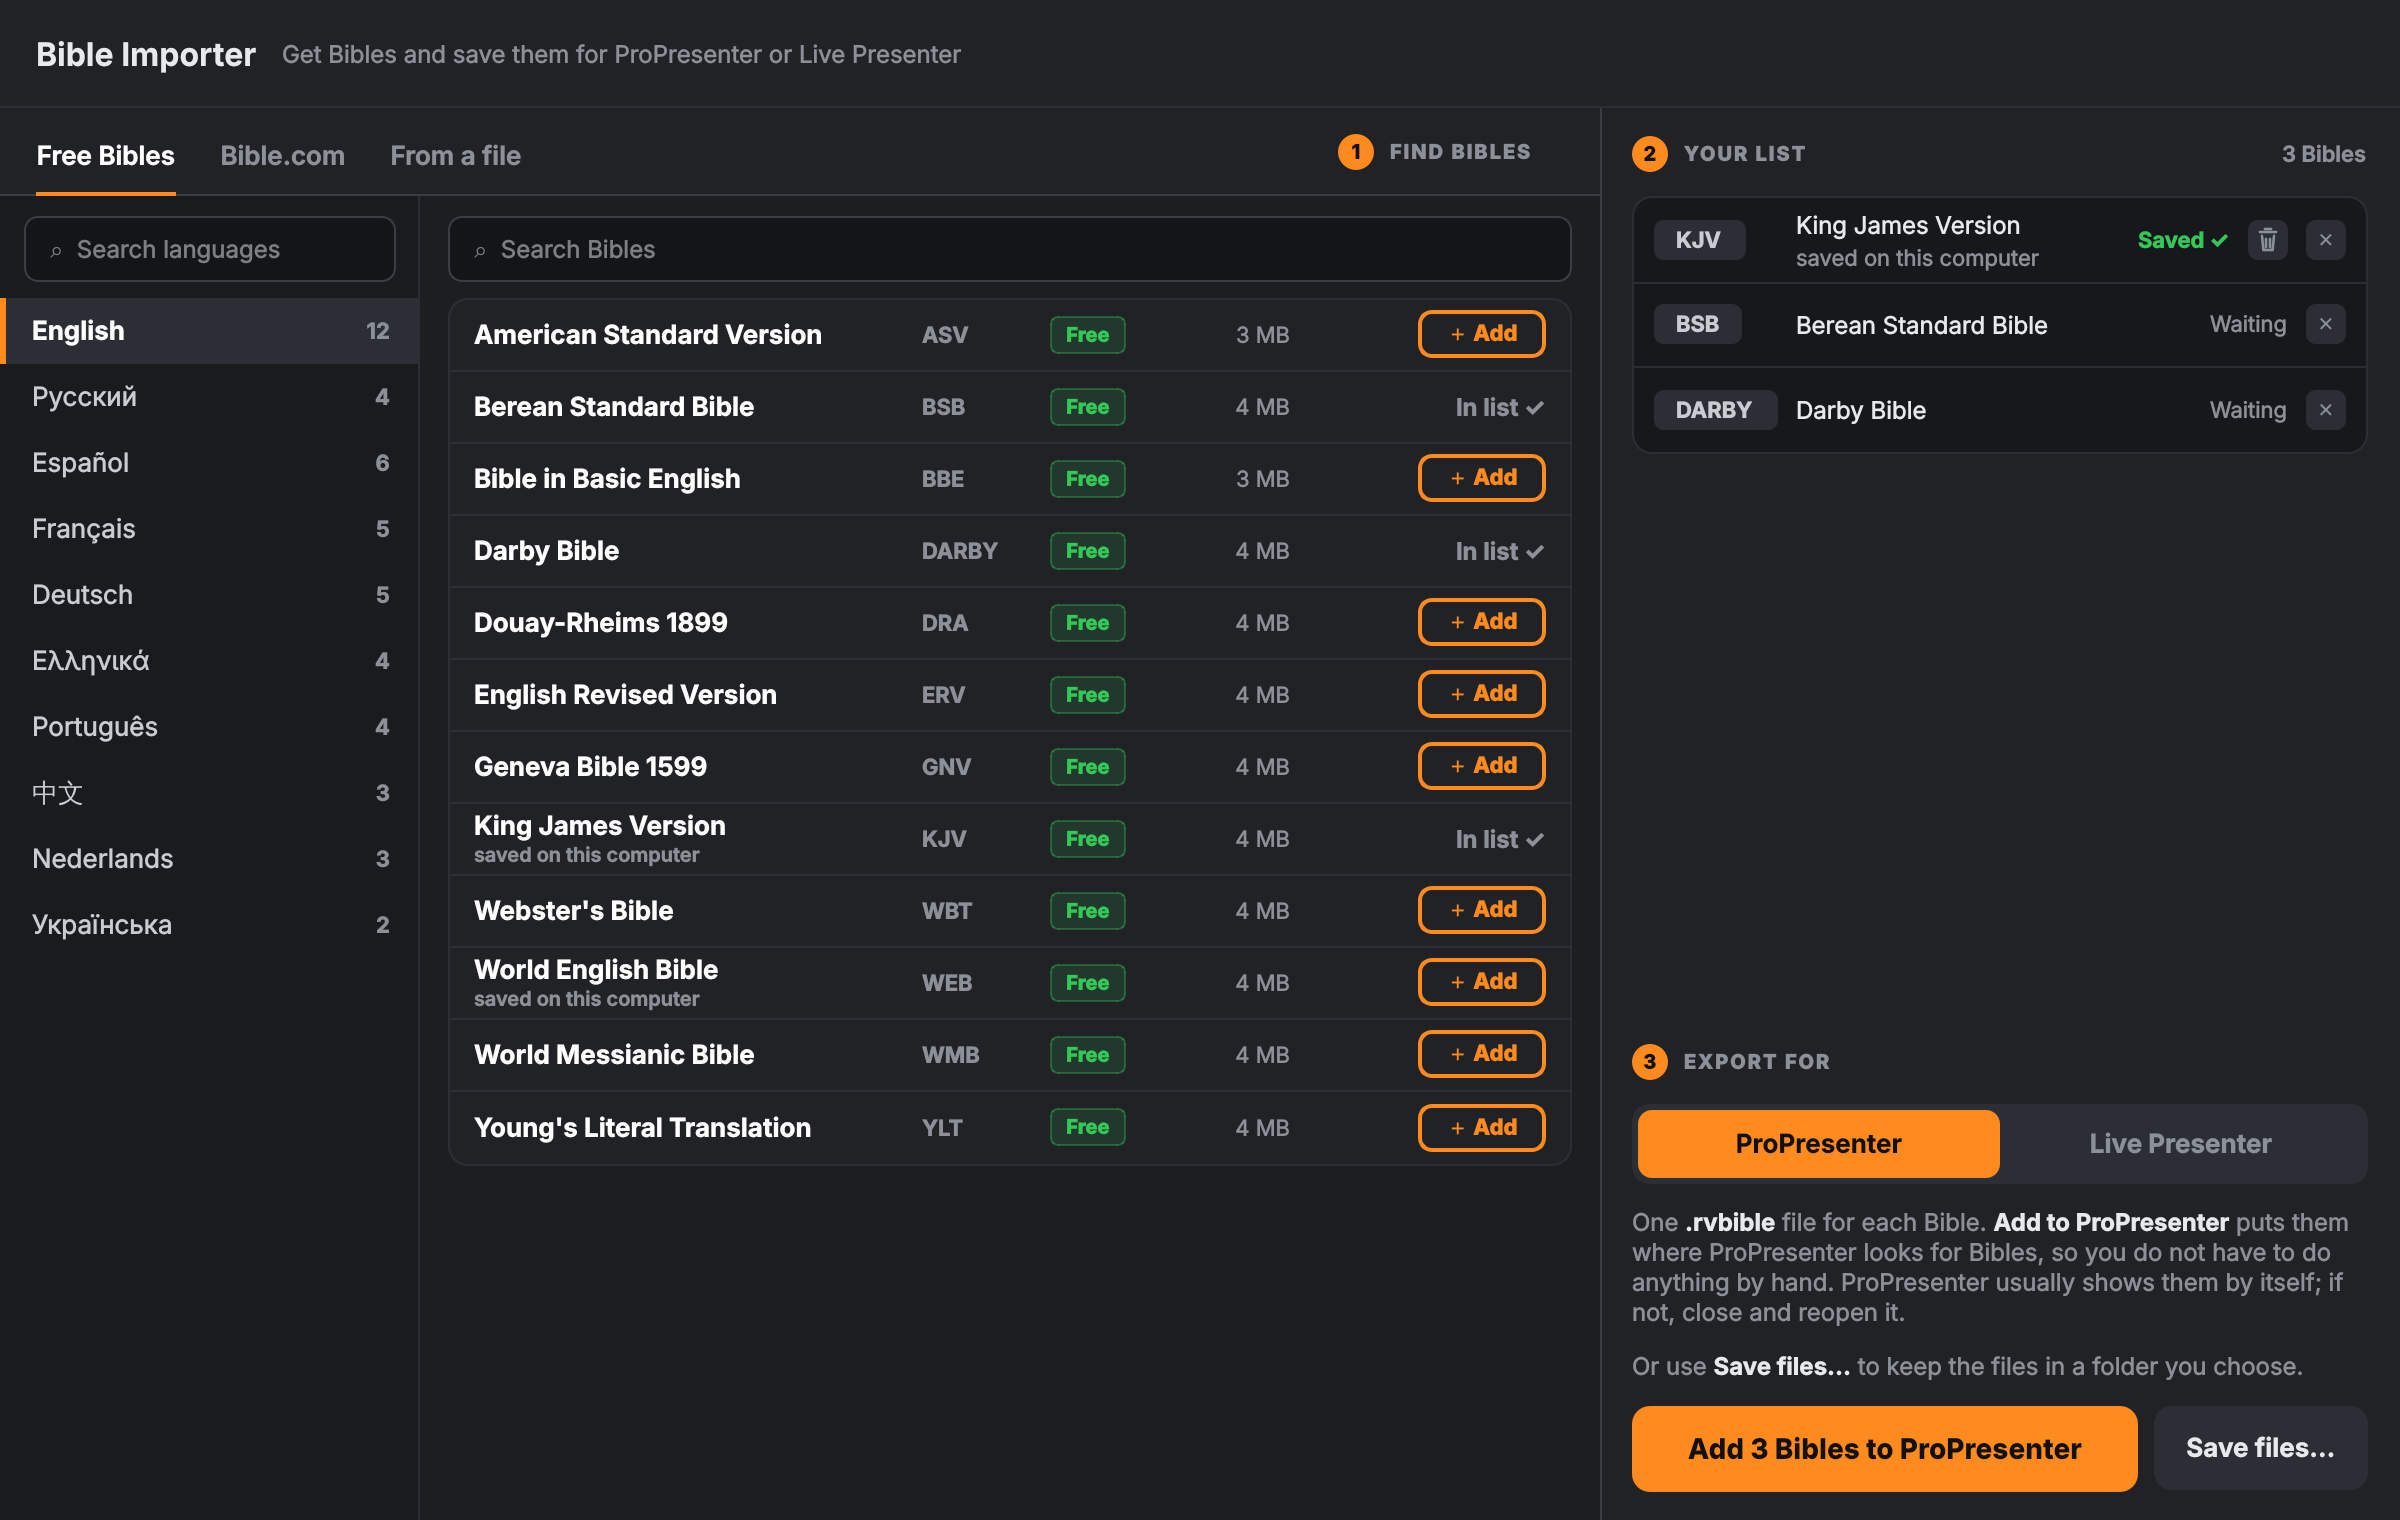
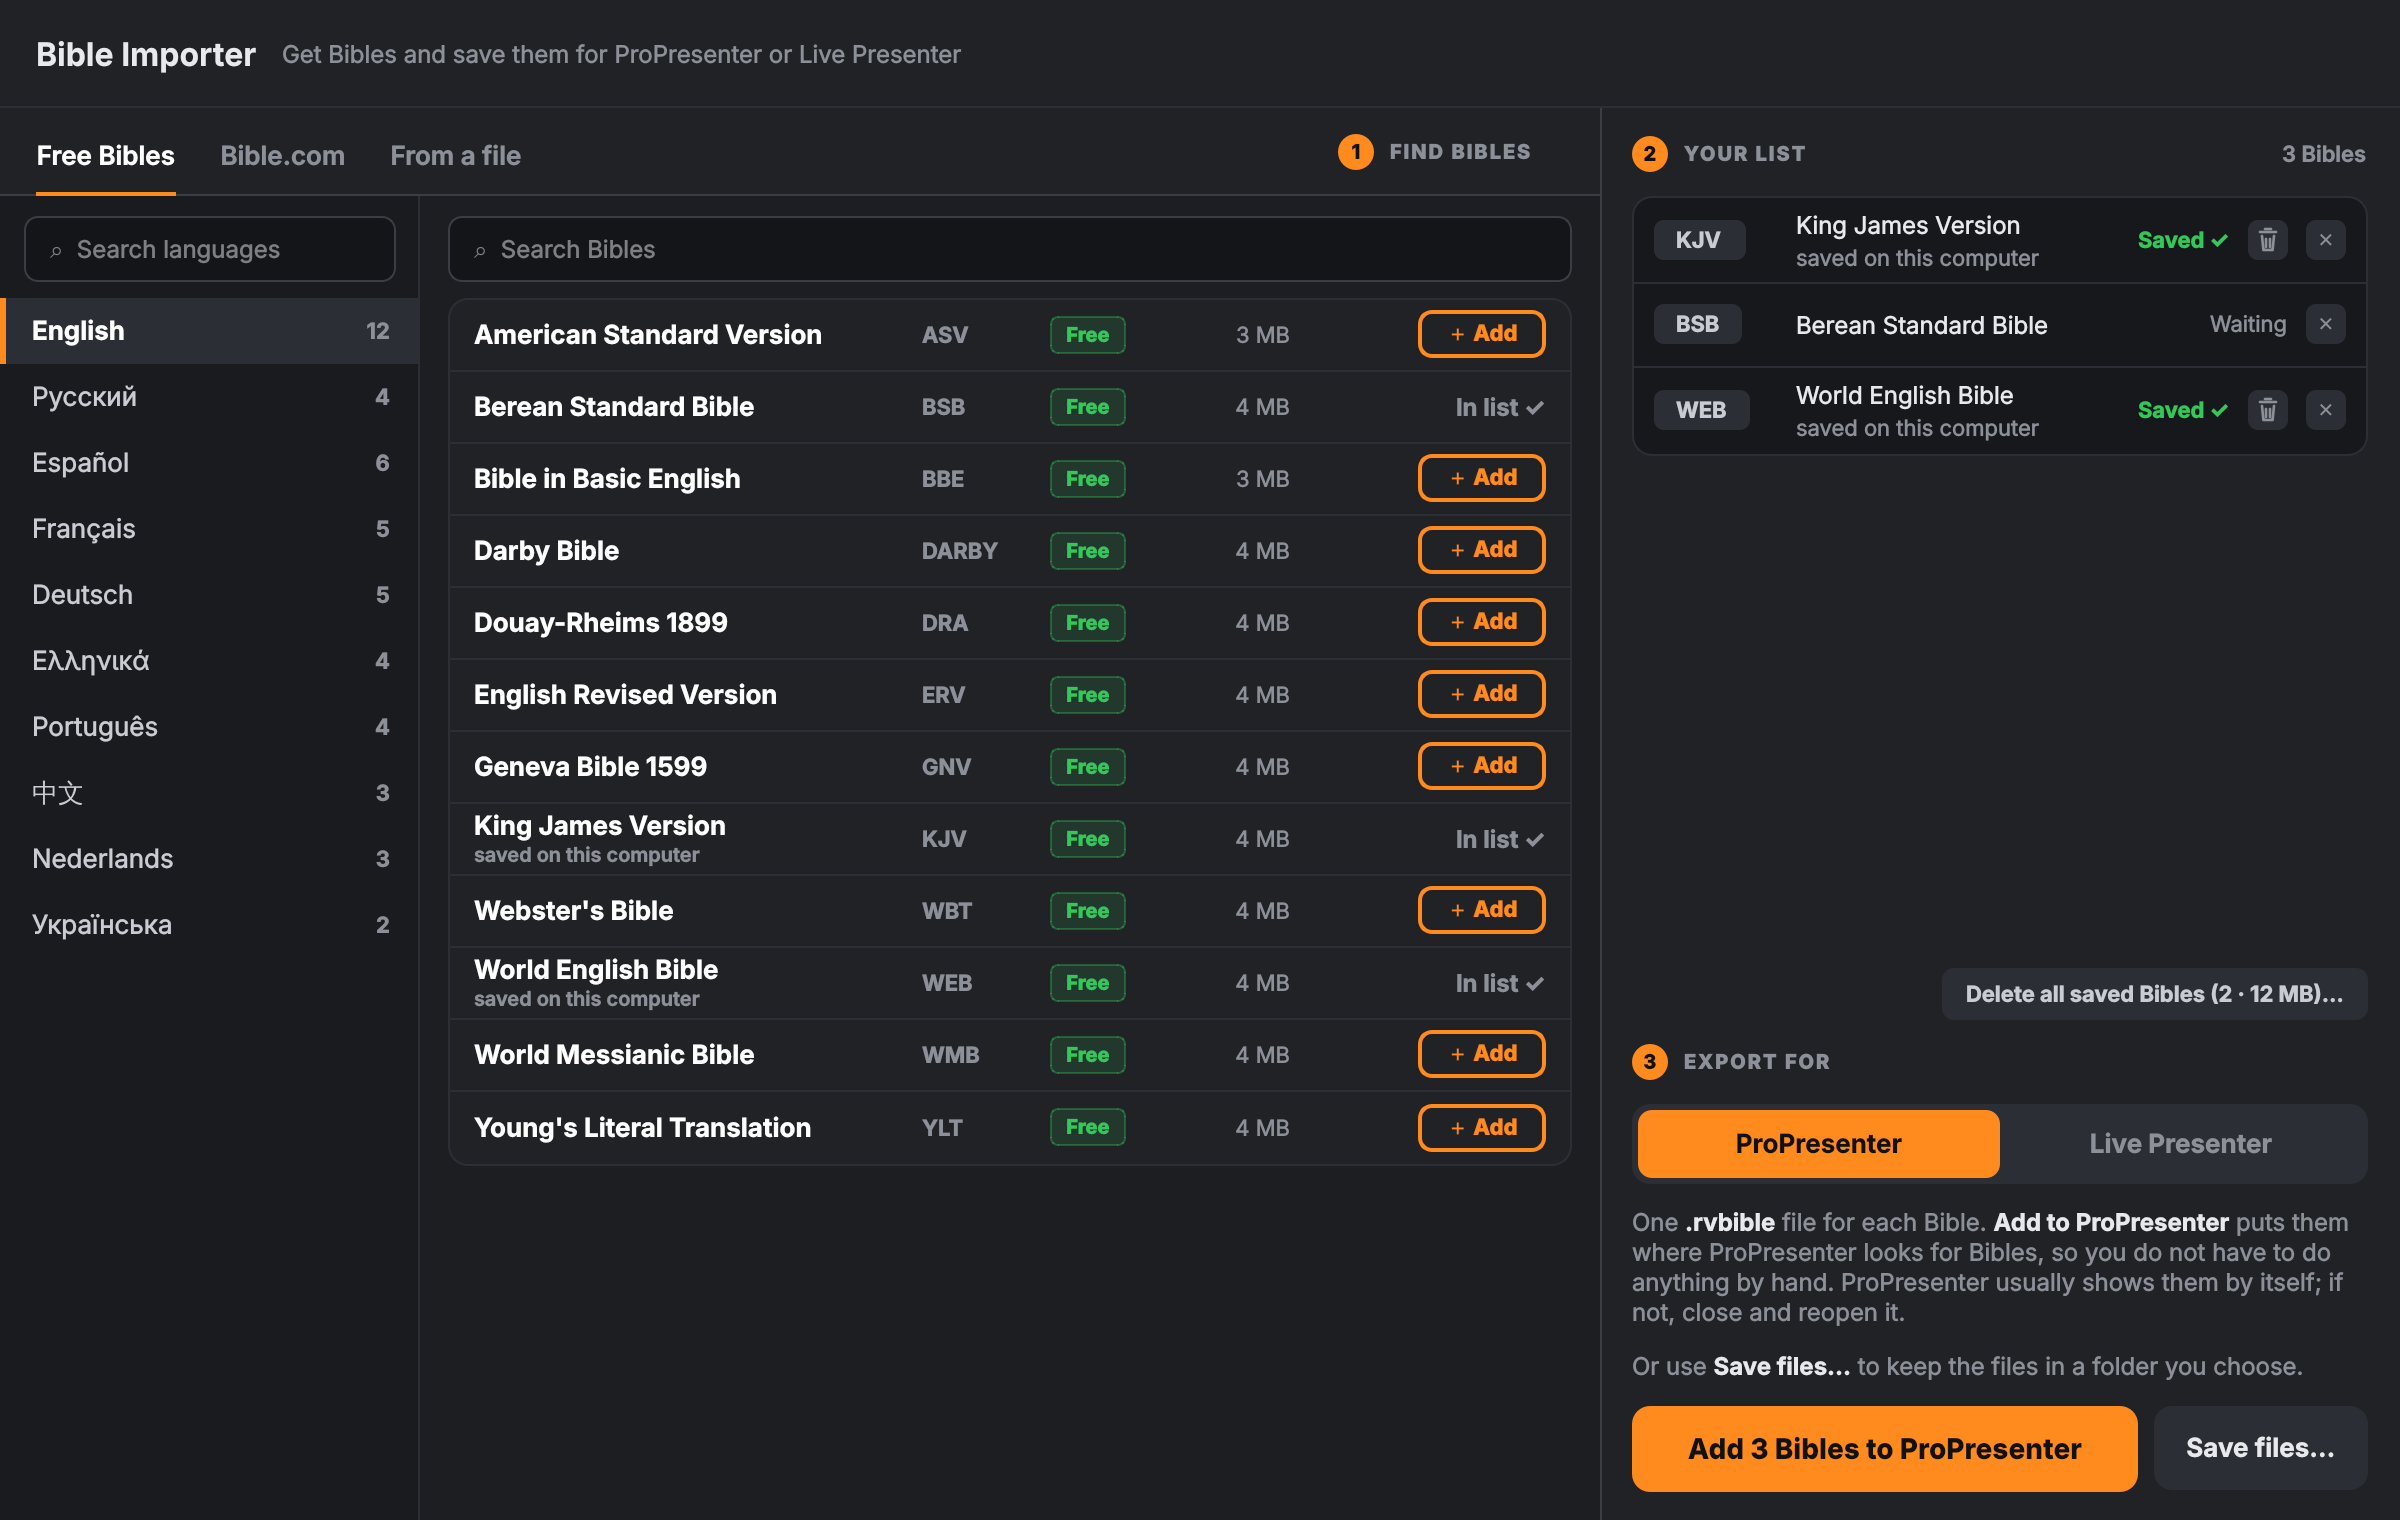
README: new screenshot (shows the delete-all-saved button); screenshot tool uses a realistic size
Claude-Session: https://claude.ai/code/session_01NZBz3ePWXuLfTKEzQoZ6NT

diff --git a/tools/screenshots.py b/tools/screenshots.py
@@ -104,8 +104,10 @@ def main(out: Path) -> None:
 
     # 01 Mac, Free Bibles, ProPresenter
     w = make(app, "mac")
-    for k in ("getbible:kjv", "getbible:bsb", "getbible:darby"):
+    for k in ("getbible:kjv", "getbible:bsb", "getbible:web"):
         add(w, k)
+    w.library.disk_size = lambda: 12_400_000        # the sample Bibles are tiny; real ones are about 4 MB each
+    w._refresh_panel()
     pump(app, 0.2)
     w.grab().save(str(out / "01-Main-Free-ProPresenter.png"))
 
